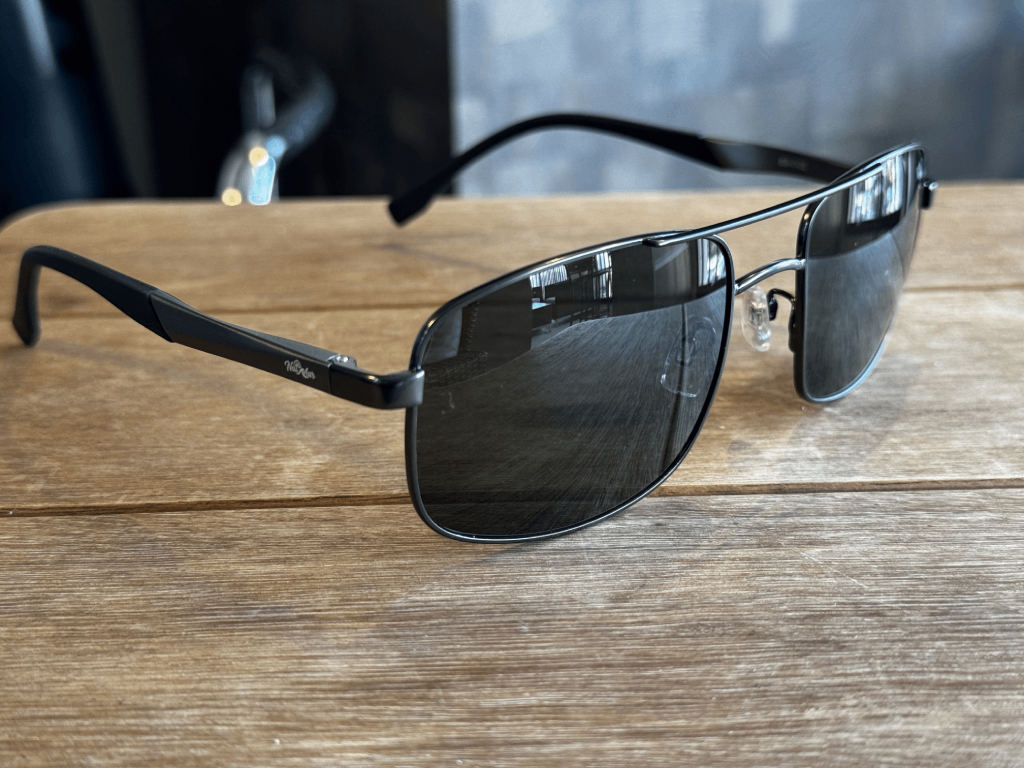
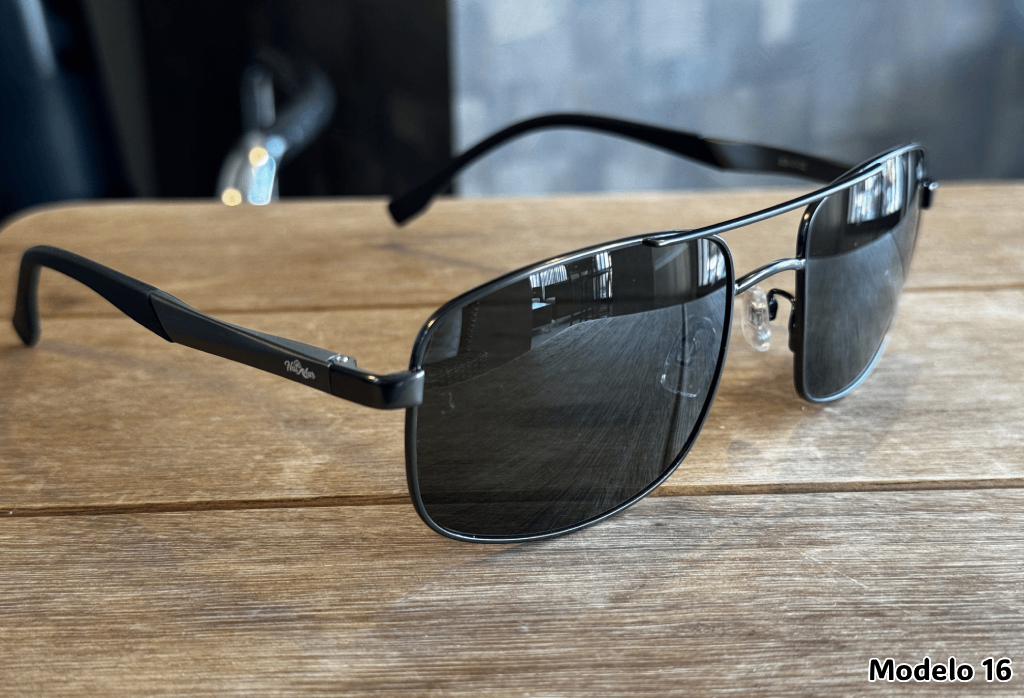
Sincroniza óculos com a loja: SKUs, fotos certas e Modelo 19
- SKUs do Oculos Solar passam a ser os da loja (631000301...), conforme o
  CSV exportado em 15/10/2026. Os do Clip Flip já batiam.
- Inclui o Modelo 19 (Retangular, 631000819), que estava só na loja.
- Modelo 4 usava a foto do Modelo 14; passa a usar a foto própria.
- Modelo 1 usava uma foto igual à do Modelo 3; passa a usar a foto correta
  da loja (1OS-QAPLR-2.png). O arquivo antigo 1OS-QAPLR.png é mantido porque
  o e-mail de outubro o referencia.
- Demais fotos do Oculos Solar (exceto Modelo 18) trocadas pelas da loja,
  que trazem "Modelo N" estampado. A do Modelo 18 foi mantida porque a foto
  da loja está estampada "Modelo 19" por engano.
- Modelo 20 (esgotado) não entra.

diff --git a/index.html b/index.html
@@ -375,24 +375,25 @@
 <script>
     // Todos os dados processados do ficheiro CSV
     const produtos = [
-        {"title": "Oculos Solar", "model": "Quadrado", "modelo": "Modelo 1", "price": "89,00", "color": "Haste em Bambu; Cor da Armação: Preta; Cor da Lente: Roxa", "sku": "63100101", "img": "images/1OS-QAPLR.png", "tag": "Destaque"}, 
-        {"title": "Oculos Solar", "model": "Quadrado", "modelo": "Modelo 2", "price": "89,00", "color": "Haste em Bambu; Cor da Armação: Preto por fora e Azul por dentro; Cor da Lente: Preta", "sku": "63100110", "img": "images/10OS-QPALP.png", "tag": "Novo"}, 
-        {"title": "Oculos Solar", "model": "Quadrado", "modelo": "Modelo 3", "price": "89,00", "color": "Haste em Bambu; Cor da Armação:Plástico Preto; Cor da Lente: Roxa Degradê", "sku": "63100112", "img": "images/18OS-QAPLRD.png", "tag": ""}, 
-        {"title": "Oculos Solar", "model": "Quadrado", "modelo": "Modelo 4", "price": "89,00", "color": "Haste em Plástico Translúcido; Cor da Armação: Fumê Claro; Cor da Lente: Azul", "sku": "63100115", "img": "images/15OS-QFMM-LMD.png", "tag": ""}, 
-        {"title": "Oculos Solar", "model": "Quadrado", "modelo": "Modelo 5", "price": "99,00", "color": "Dupla Lente Com Imã - Cor: Preta; Cor da Lente: Preta e Translúcida", "sku": "63100106", "img": "images/6OS-QAPLP-IM.png", "tag": "Magnético"}, 
-        {"title": "Oculos Solar", "model": "Quadrado", "modelo": "Modelo 6", "price": "89,00", "color": "Armação Superior Reta - Cor: Marrom; Cor da Lente: Marrom", "sku": "63100103", "img": "images/3OS-QAMLM.png", "tag": "Destaque"}, 
-        {"title": "Oculos Solar", "model": "Quadrado", "modelo": "Modelo 7", "price": "89,00", "color": "Cor da Armação: Preta; Cor da Lente: Preta", "sku": "63100102", "img": "images/2OS-QAPLP.png", "tag": ""}, 
-        {"title": "Oculos Solar", "model": "Quadrado", "modelo": "Modelo 8", "price": "89,00", "color": "Cor da Armação: Preta e Vermelha; Cor da Lente: Cinza", "sku": "63100105", "img": "images/5OS-QPVLC.png", "tag": ""}, 
-        {"title": "Oculos Solar", "model": "Quadrado", "modelo": "Modelo 13", "price": "89,00", "color": "Cor da Armação: Preto por Fora e Azul por Dentro; Cor da Lente: Verde", "sku": "63100109", "img": "images/9OS-QPALV.png", "tag": ""}, 
-        {"title": "Oculos Solar", "model": "Quadrado", "modelo": "Modelo 10", "price": "89,00", "color": "Cor da Armação: Preta e Vermelha; Cor da Lente: Preta", "sku": "63100104", "img": "images/4OS-QPVLP.png", "tag": ""}, 
-        {"title": "Oculos Solar", "model": "Quadrado", "modelo": "Modelo 11", "price": "89,00", "color": "Cor da Armação: Azul; Cor da Lente: Azul Degradê", "sku": "63100107", "img": "images/7OS-QAZLAD.png", "tag": "Novo"}, 
-        {"title": "Oculos Solar", "model": "Quadrado", "modelo": "Modelo 12", "price": "89,00", "color": "Cor da Armação Curvada: Marrom; Cor da Lente: Marrom", "sku": "63100108", "img": "images/8OS-QAMLM-2.png", "tag": ""}, 
-        {"title": "Oculos Solar", "model": "Quadrado", "modelo": "Modelo 9", "price": "89,00", "color": "Armação Metálica com Plástico Cor: Preto por Fora e Azul por Dentro; Cor da Lente: Verde", "sku": "63100116", "img": "images/11OS-QPALV-2.png", "tag": ""}, 
-        {"title": "Oculos Solar", "model": "Quadrado Feminino", "modelo": "Modelo 14", "price": "89,00", "color": "Apoio em silicone; Armação Feminina Cor: Metálica Marrom; Cor da Lente: Marrom Degradê", "sku": "63100111", "img": "images/15OS-QFMM-LMD.png", "tag": ""}, 
-        {"title": "Oculos Solar", "model": "Quadrado Aviador", "modelo": "Modelo 15", "price": "89,00", "color": "Apoio em Silicone com Armação: Preta; Cor da Lente: Verde", "sku": "63100117", "img": "images/13OS-AAPLV.png", "tag": ""}, 
-        {"title": "Oculos Solar", "model": "Quadrado Aviador", "modelo": "Modelo 16", "price": "89,00", "color": "Apoio em Silicone com Armação: Preta e Cinza; Cor da Lente: Verde", "sku": "63100118", "img": "images/19OS-APCLV.png", "tag": ""}, 
-        {"title": "Oculos Solar", "model": "Oval", "modelo": "Modelo 17", "price": "89,00", "color": "Cor da Armação: Preta; Cor da Lente: Amarela Espelhada", "sku": "63100119", "img": "images/12OS-OAPLYE.png", "tag": ""}, 
-        {"title": "Oculos Solar", "model": "Oval", "modelo": "Modelo 18", "price": "89,00", "color": "Cor da Armação em Plástico: Preto; Cor da Lente: Preta", "sku": "63100114", "img": "images/17OS-OAPLP.png", "tag": ""}, 
+        {"title": "Oculos Solar", "model": "Quadrado", "modelo": "Modelo 1", "price": "89,00", "color": "Haste em Bambu; Cor da Armação: Preta; Cor da Lente: Roxa", "sku": "631000301", "img": "images/1OS-QAPLR-2.png", "tag": "Destaque"}, 
+        {"title": "Oculos Solar", "model": "Quadrado", "modelo": "Modelo 2", "price": "89,00", "color": "Haste em Bambu; Cor da Armação: Preto por fora e Azul por dentro; Cor da Lente: Preta", "sku": "631000302", "img": "images/10OS-QPALP.png", "tag": "Novo"}, 
+        {"title": "Oculos Solar", "model": "Quadrado", "modelo": "Modelo 3", "price": "89,00", "color": "Haste em Bambu; Cor da Armação:Plástico Preto; Cor da Lente: Roxa Degradê", "sku": "631000303", "img": "images/18OS-QAPLRD.png", "tag": ""}, 
+        {"title": "Oculos Solar", "model": "Quadrado", "modelo": "Modelo 4", "price": "89,00", "color": "Haste em Plástico Translúcido; Cor da Armação: Fumê Claro; Cor da Lente: Azul", "sku": "631000304", "img": "images/14OS-QMFLA.png", "tag": ""}, 
+        {"title": "Oculos Solar", "model": "Quadrado", "modelo": "Modelo 5", "price": "99,00", "color": "Dupla Lente Com Imã - Cor: Preta; Cor da Lente: Preta e Translúcida", "sku": "631000305", "img": "images/6OS-QAPLP-IM.png", "tag": "Magnético"}, 
+        {"title": "Oculos Solar", "model": "Quadrado", "modelo": "Modelo 6", "price": "89,00", "color": "Armação Superior Reta - Cor: Marrom; Cor da Lente: Marrom", "sku": "631000306", "img": "images/3OS-QAMLM.png", "tag": "Destaque"}, 
+        {"title": "Oculos Solar", "model": "Quadrado", "modelo": "Modelo 7", "price": "89,00", "color": "Cor da Armação: Preta; Cor da Lente: Preta", "sku": "631000307", "img": "images/2OS-QAPLP.png", "tag": ""}, 
+        {"title": "Oculos Solar", "model": "Quadrado", "modelo": "Modelo 8", "price": "89,00", "color": "Cor da Armação: Preta e Vermelha; Cor da Lente: Cinza", "sku": "631000308", "img": "images/5OS-QPVLC.png", "tag": ""}, 
+        {"title": "Oculos Solar", "model": "Quadrado", "modelo": "Modelo 13", "price": "89,00", "color": "Cor da Armação: Preto por Fora e Azul por Dentro; Cor da Lente: Verde", "sku": "631000313", "img": "images/9OS-QPALV.png", "tag": ""}, 
+        {"title": "Oculos Solar", "model": "Quadrado", "modelo": "Modelo 10", "price": "89,00", "color": "Cor da Armação: Preta e Vermelha; Cor da Lente: Preta", "sku": "631000310", "img": "images/4OS-QPVLP.png", "tag": ""}, 
+        {"title": "Oculos Solar", "model": "Quadrado", "modelo": "Modelo 11", "price": "89,00", "color": "Cor da Armação: Azul; Cor da Lente: Azul Degradê", "sku": "631000311", "img": "images/7OS-QAZLAD.png", "tag": "Novo"}, 
+        {"title": "Oculos Solar", "model": "Quadrado", "modelo": "Modelo 12", "price": "89,00", "color": "Cor da Armação Curvada: Marrom; Cor da Lente: Marrom", "sku": "631000312", "img": "images/8OS-QAMLM-2.png", "tag": ""}, 
+        {"title": "Oculos Solar", "model": "Quadrado", "modelo": "Modelo 9", "price": "89,00", "color": "Armação Metálica com Plástico Cor: Preto por Fora e Azul por Dentro; Cor da Lente: Verde", "sku": "631000309", "img": "images/11OS-QPALV-2.png", "tag": ""}, 
+        {"title": "Oculos Solar", "model": "Quadrado Feminino", "modelo": "Modelo 14", "price": "89,00", "color": "Apoio em silicone; Armação Feminina Cor: Metálica Marrom; Cor da Lente: Marrom Degradê", "sku": "631000314", "img": "images/15OS-QFMM-LMD.png", "tag": ""}, 
+        {"title": "Oculos Solar", "model": "Quadrado Aviador", "modelo": "Modelo 15", "price": "89,00", "color": "Apoio em Silicone com Armação: Preta; Cor da Lente: Verde", "sku": "631000515", "img": "images/13OS-AAPLV.png", "tag": ""}, 
+        {"title": "Oculos Solar", "model": "Quadrado Aviador", "modelo": "Modelo 16", "price": "89,00", "color": "Apoio em Silicone com Armação: Preta e Cinza; Cor da Lente: Verde", "sku": "631000516", "img": "images/19OS-APCLV.png", "tag": ""}, 
+        {"title": "Oculos Solar", "model": "Oval", "modelo": "Modelo 17", "price": "89,00", "color": "Cor da Armação: Preta; Cor da Lente: Amarela Espelhada", "sku": "631000717", "img": "images/12OS-OAPLYE.png", "tag": ""}, 
+        {"title": "Oculos Solar", "model": "Oval", "modelo": "Modelo 18", "price": "89,00", "color": "Cor da Armação em Plástico: Preto; Cor da Lente: Preta", "sku": "631000718", "img": "images/17OS-OAPLP.png", "tag": ""}, 
+        {"title": "Oculos Solar", "model": "Retangular", "modelo": "Modelo 19", "price": "89,00", "color": "Apoio em Silicone com Armação: Metálica Preta; Cor da Lente: Preta", "sku": "631000819", "img": "images/16OS-RTMP-LP.png", "tag": ""}, 
         {"title": "Clip Flip", "model": "Aviador", "modelo": "Modelo Aviador", "price": "34,99", "color": "Azul Espelhada", "sku": "63110051002", "img": "images/FLIP77C9.png", "tag": ""}, 
         {"title": "Clip Flip", "model": "Aviador", "modelo": "Modelo Aviador", "price": "34,99", "color": "Marrom", "sku": "63110051003", "img": "images/FLIP77C2.png", "tag": ""}, 
         {"title": "Clip Flip", "model": "Aviador", "modelo": "Modelo Aviador", "price": "34,99", "color": "Marrom Degrade", "sku": "63110051004", "img": "images/FLIP77C5.png", "tag": ""}, 
